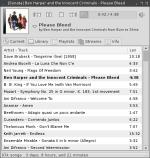
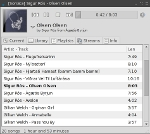
update website for 1.6

diff --git a/website/documentation.html b/website/documentation.html
@@ -134,14 +134,12 @@
 	
 	<p>&nbsp;&nbsp;&nbsp;&nbsp;&nbsp;<u>Main Shortcuts</u>:<br/>
 	  &nbsp;&nbsp;&nbsp;&nbsp;&nbsp;<b>F1</b>: About Sonata<br/>
-	  &nbsp;&nbsp;&nbsp;&nbsp;&nbsp;<b>F2</b>: Display song info window<br/>
 	  &nbsp;&nbsp;&nbsp;&nbsp;&nbsp;<b>F5</b>: Preferences<br/>
-	  &nbsp;&nbsp;&nbsp;&nbsp;&nbsp;<b>Alt-1</b>: Switch to current playlist<br/>
-	  &nbsp;&nbsp;&nbsp;&nbsp;&nbsp;<b>Alt-2</b>: Switch to library<br/>
-	  &nbsp;&nbsp;&nbsp;&nbsp;&nbsp;<b>Alt-3</b>: Switch to playlists<br/>
-	  &nbsp;&nbsp;&nbsp;&nbsp;&nbsp;<b>Alt-4</b>: Switch to streams<br/>
+	  &nbsp;&nbsp;&nbsp;&nbsp;&nbsp;<b>F11</b>: Fullscreen Artwork Mode<br/>
+	  &nbsp;&nbsp;&nbsp;&nbsp;&nbsp;<b>Alt-[1-5]</b>: Switch to [1st-5th] tab<br/>
 	  &nbsp;&nbsp;&nbsp;&nbsp;&nbsp;<b>Alt-C</b>: Connect to MPD<br/>
 	  &nbsp;&nbsp;&nbsp;&nbsp;&nbsp;<b>Alt-D</b>: Disconnect from MPD<br/>
+	  &nbsp;&nbsp;&nbsp;&nbsp;&nbsp;<b>Alt-R</b>: Randomize current playlist<br/>
 	  &nbsp;&nbsp;&nbsp;&nbsp;&nbsp;<b>Alt-Down</b>: Expand player<br/>
 	  &nbsp;&nbsp;&nbsp;&nbsp;&nbsp;<b>Alt-Left</b>: Switch to previous tab<br/>
 	  &nbsp;&nbsp;&nbsp;&nbsp;&nbsp;<b>Alt-Right</b>: Switch to next tab<br/>
@@ -161,6 +159,7 @@
 	  &nbsp;&nbsp;&nbsp;&nbsp;&nbsp;<b>Ctrl-Plus</b>: Raise the volume<br/></p>
 
 	<p>&nbsp;&nbsp;&nbsp;&nbsp;&nbsp;<u>Current Shortcuts</u>:<br/>
+	  &nbsp;&nbsp;&nbsp;&nbsp;&nbsp;<b>Alt-R</b>: Randomize list<br/>
 	  &nbsp;&nbsp;&nbsp;&nbsp;&nbsp;<b>Enter/Space</b>: Play selected song<br/>
 	  &nbsp;&nbsp;&nbsp;&nbsp;&nbsp;<b>Delete</b>: Remove selected song(s)<br/>
 	  &nbsp;&nbsp;&nbsp;&nbsp;&nbsp;<b>Ctrl-I</b>: Center currently playing song<br/>
@@ -174,19 +173,25 @@
 	  &nbsp;&nbsp;&nbsp;&nbsp;&nbsp;<b>Ctrl-D</b>: Add selected song(s) or directory(s)<br/>
 	  &nbsp;&nbsp;&nbsp;&nbsp;&nbsp;<b>Ctrl-R</b>: Replace with selected song(s) or directory(s)<br/>
 	  &nbsp;&nbsp;&nbsp;&nbsp;&nbsp;<b>Ctrl-T</b>: Edit selected song's tags<br/>
+	  &nbsp;&nbsp;&nbsp;&nbsp;&nbsp;<b>Ctrl-Shift-D</b>: Add selected item(s) and play<br/>
+	  &nbsp;&nbsp;&nbsp;&nbsp;&nbsp;<b>Ctrl-Shift-R</b>: Replace with selected item(s) and play<br/>
 	  &nbsp;&nbsp;&nbsp;&nbsp;&nbsp;<b>Ctrl-U</b>: Update selected item(s)/path(s)<br/></p>
 	
 	<p>&nbsp;&nbsp;&nbsp;&nbsp;&nbsp;<u>Playlist Shortcuts</u>:<br/>
 	  &nbsp;&nbsp;&nbsp;&nbsp;&nbsp;<b>Enter/Space</b>: Add selected playlist(s)<br/>
 	  &nbsp;&nbsp;&nbsp;&nbsp;&nbsp;<b>Delete</b>: Remove selected playlist(s)<br/>
 	  &nbsp;&nbsp;&nbsp;&nbsp;&nbsp;<b>Ctrl-D</b>: Add selected playlist(s)<br/>
-	  &nbsp;&nbsp;&nbsp;&nbsp;&nbsp;<b>Ctrl-R</b>: Replace with selected playlist(s)<br/></p>
+	  &nbsp;&nbsp;&nbsp;&nbsp;&nbsp;<b>Ctrl-R</b>: Replace with selected playlist(s)<br/>
+	  &nbsp;&nbsp;&nbsp;&nbsp;&nbsp;<b>Ctrl-Shift-D</b>: Add selected playlist(s) and play<br/>
+	  &nbsp;&nbsp;&nbsp;&nbsp;&nbsp;<b>Ctrl-Shift-R</b>: Replace with selected playlist(s) and play<br/></p>
 	
 	<p>&nbsp;&nbsp;&nbsp;&nbsp;&nbsp;<u>Stream Shortcuts</u>:<br/>
 	  &nbsp;&nbsp;&nbsp;&nbsp;&nbsp;<b>Enter/Space</b>: Add selected stream(s)<br/>
 	  &nbsp;&nbsp;&nbsp;&nbsp;&nbsp;<b>Delete</b>: Remove selected stream(s)<br/>
 	  &nbsp;&nbsp;&nbsp;&nbsp;&nbsp;<b>Ctrl-D</b>: Add selected stream(s)<br/>
-	  &nbsp;&nbsp;&nbsp;&nbsp;&nbsp;<b>Ctrl-R</b>: Replace with selected stream(s)<br/></p>
+	  &nbsp;&nbsp;&nbsp;&nbsp;&nbsp;<b>Ctrl-R</b>: Replace with selected stream(s)<br/>
+	  &nbsp;&nbsp;&nbsp;&nbsp;&nbsp;<b>Ctrl-Shift-D</b>: Add selected stream(s) and play<br/>
+	  &nbsp;&nbsp;&nbsp;&nbsp;&nbsp;<b>Ctrl-Shift-R</b>: Replace with selected stream(s) and play<br/></p>
 	
 	<p>&nbsp;&nbsp;&nbsp;&nbsp;&nbsp;<u>Info Shortcuts</u>:<br/>
 	  &nbsp;&nbsp;&nbsp;&nbsp;&nbsp;<b>Ctrl-T</b>: Edit playing song's tags<br/></p>
@@ -194,7 +199,7 @@
 
       <div class="footer">
 	<div class="right">
-	  <p>&copy; 2008 Scott Horowitz</p>
+	  <p>&copy; 2008-2009 Scott Horowitz</p>
 	</div>
 	<br/>
       </div>

diff --git a/website/changelog.html b/website/changelog.html
@@ -27,6 +27,41 @@
 
 		 <h2>Changelog</h2>
 		 
+		 	<p>March 29, 2008 (Version 1.6):<ul>
+			<li>Album browsing mode, additional details in library views</li>
+			<li>Real-time searching of library (search as you type)</li>
+			<li>Fullscreen album art mode (via right-click on artwork) (mips)</li>
+			<li>Improve library searching across meta tags</li>
+			<li>Sort library search results</li>
+			<li>Show file path in tooltip for library search results</li>
+			<li>Improved support for updating less than entire library</li>
+			<li>Drag-and-drop to copy files from Sonata to a file manager (Kamil)</li>
+			<li>Ability to show file paths in tag editing window</li>
+			<li>Use plchanges for faster performance (e.g. add to playlist)</li>
+			<li>Allow manually fetching remote art when using local art pref (Erik)</li>
+			<li>Swap mousewheel behavior for progressbar</li>
+			<li>Only minimize to trayicon on click if focused; raise if not focused</li>
+			<li>Use new 'listplaylists' command for retrieving playlists</li>
+			<li>Allow hiding the application's titlebar in preferences</li>
+			<li>Better error trapping</li>
+			<li>Make process name 'sonata' for linux (himdel)</li>
+			<li>Look for &lt;artist&gt; - &lt;title&gt;.txt lyrics files by other clients</li>
+ 			<li>Add Traditional Chinese translation (b4283)</li>
+			<li>Add Japanese translation (Masato)</li>
+			<li>Add Slovenian translation (Alan)</li>
+			<li>Code modernisation, modularisation, overall cleanup, documentation</li>
+			<li>A prototype of a plug-in system</li>
+			<li>Unicode fixes</li>
+			<li>Some helpful error messages if startup fails</li>
+			<li>Useless code removed, various code cleanups and refactorings (Stephen)</li>
+			<li>Bug: Bad profiles prevent Sonata from starting</li>
+			<li>Bug: Error for CLI arguments when Sonata can't connect to MPD (Juan)</li>
+			<li>Bug: Files may not update in interface after tag editing</li>
+			<li>Bug: Traceback with Turkish locale</li>
+			<li>Bug: Lyrics don't work with python-zsi 2.0 on Ubuntu</li>
+			<li>Bug: Bell sound when going to parent folder using backspace</li>
+			</ul>
+
 		 	<p>September 13, 2008 (Version 1.5.3):<ul>
 			<li>Quick link to edit lyrics through LyricWiki</li>
 			<li>Unicode lyrics and better searching with LyricWiki (orivej)</li>
@@ -416,7 +451,7 @@
 
 <div class="footer">
   <div class="right">
-    <p>&copy; 2008 Scott Horowitz</p>
+    <p>&copy; 2008-2009 Scott Horowitz</p>
   </div>
   <br/>
 </div>

diff --git a/website/download.html b/website/download.html
@@ -27,7 +27,7 @@
 
 		 <h2>Download</h2>
 
-			<p>Sonata source code is available here:&nbsp;&nbsp;<a href="http://download.berlios.de/sonata/sonata-1.5.3.tar.gz">sonata-1.5.3.tar.gz</a>&nbsp;&nbsp;&nbsp;&nbsp;&nbsp;<a href="http://download.berlios.de/sonata/sonata-1.5.3.tar.bz2">sonata-1.5.3.tar.bz2</a><br/><br/>
+			<p>Sonata source code is available here:&nbsp;&nbsp;<a href="http://download.berlios.de/sonata/sonata-1.6.tar.gz">sonata-1.6.tar.gz</a>&nbsp;&nbsp;&nbsp;&nbsp;&nbsp;<a href="http://download.berlios.de/sonata/sonata-1.6.tar.bz2">sonata-1.6.tar.bz2</a><br/><br/>
 
 			&nbsp;&nbsp;&nbsp;&nbsp;&nbsp;Archlinux: pacman -S <a href="http://archlinux.org/packages/search/?q=sonata">sonata</a> (James Rayner)<br/>
 			&nbsp;&nbsp;&nbsp;&nbsp;&nbsp;Debian: Available in <a href="http://packages.debian.org/unstable/sound/sonata">unstable</a> (Michal Čihař)<br/>
@@ -48,14 +48,14 @@
 
 		<h2>Requirements</h2>
 
-			<p>PyGTK 2.6.0 or newer<br/>
-				GTK+ 2.6.0 or newer<br/>
-				python-mpd 0.2.0 or newer<br />
-				Python 2.5 or python-elementtree<br/>
+			<p>PyGTK 2.12 or newer<br/>
+				GTK+ 2.12 or newer<br/>
+				python-mpd 0.2 or newer<br />
+				Python 2.5 or newer<br/>
 				MPD 0.12 or newer (possibly on another computer)<br/>
-				gnome-python-extras or PyGTK 2.10.x for system tray support (optional)<br/>
+				gnome-python-extras for enhanced system tray support (optional)<br/>
 				taglib and tagpy for editing metadata (optional)<br/>
-				ZSI 2.0 or newer for lyrics support (optional)<br/>
+				ZSI 2.0 or newer for automatic lyrics fetching (optional)<br/>
 				dbus-python for mmkeys, single instance support (optional)<br/>
 				GCC (building only)<br/>
 				python-dev (on some distros; building only)
@@ -64,7 +64,7 @@
 
 <div class="footer">
   <div class="right">
-    <p>&copy; 2008 Scott Horowitz</p>
+    <p>&copy; 2008-2009 Scott Horowitz</p>
   </div>
   <br/>
 </div>

diff --git a/website/index.html b/website/index.html
@@ -32,19 +32,21 @@
 <div class="content">
 
 		 <h2>About</h2>
-		 <p>Sonata is an elegant GTK+ music client for the <a href="http://www.musicpd.org">Music Player Daemon (MPD)</a>.  The latest version is <a href="download.html">1.5.3</a>.</p>
+		 <p>Sonata is an elegant GTK+ music client for the <a href="http://www.musicpd.org">Music Player Daemon (MPD)</a>.  The latest version is <a href="download.html">1.6</a>.</p>
 		 <p>Sonata is licensed by the GPL and is <a href="http://www.gnu.org/philosophy/free-sw.html">free software</a>.  It has been forked from the unmaintained <a href="http://pygmy.berlios.de">Pygmy</a> project in order to fix bugs, introduce new features, and proceed down a different path.
 
 		 <h2>Features</h2>
 		 <p>- Expanded and collapsed views<br/>
 		- Automatic remote and local album art<br/>
+		- Library browsing by folders, or by genre/artist/album<br/>
 		- User-configurable columns<br/>
 		- Automatic fetching of lyrics<br/>
 		- Playlist and stream support<br/>
 		- Support for editing song tags<br/>
+		- Drag and drop to copy files<br/>
 		- Popup notification<br/>
-		- Library and playlist searching<br/>
-		- Audioscrobbler (last.fm) support<br/>
+		- Library and playlist searching, filter as you type<br/>
+		- Audioscrobbler (last.fm) 1.2 support<br/>
 		- Multiple MPD profiles<br/>
 		- Keyboard friendly<br/>
 		- Support for multimedia keys<br/>
@@ -52,11 +54,15 @@
 		- Available in 24 languages<br/>
 		 </p>
 
+		 <h2>Developers</h2>
+		 <p>Scott Horowitz &lt;stonecrest@gmail.com&gt;<br/>
+		 Tuukka Hastrup &lt;Tuukka.Hastrup@iki.fi&gt;</p>
+
 </div>
 
 <div class="footer">
   <div class="right">
-    <p>&copy; 2008 Scott Horowitz</p>
+    <p>&copy; 2008-2009 Scott Horowitz</p>
   </div>
   <br/>
 </div>

diff --git a/website/screenshots.html b/website/screenshots.html
@@ -35,7 +35,7 @@
 						<td width="33%" align="right"><a href="images/sonata3.png"><img src="images/t_sonata3.jpg"></a><br/><i>Music library, searchbar.</i><br/><br/></td>
 					</tr>
 					<tr>
-						<td width="33%" align="right"><a href="images/sonata4.png"><img src="images/t_sonata4.jpg"></a><br/><i>Genre &amp; artist browsing.</i><br/><br/></td>
+						<td width="33%" align="right"><a href="images/sonata4.png"><img src="images/t_sonata4.jpg"></a><br/><i>Artist &amp; album browsing.</i><br/><br/></td>
 						<td width="33%" align="right"><a href="images/sonata5.png"><img src="images/t_sonata5.jpg"></a><br/><i>Batch tag editing.</i><br/><br/></td>
 						<td width="33%" align="right"><a href="images/sonata6.png"><img src="images/t_sonata6.jpg"></a><br/><i>Alternative album art.</i><br/><br/></td>
 					</tr>
@@ -52,7 +52,7 @@
 
 <div class="footer">
   <div class="right">
-    <p>&copy; 2008 Scott Horowitz</p>
+    <p>&copy; 2008-2009 Scott Horowitz</p>
   </div>
   <br/>
 </div>

diff --git a/website/support.html b/website/support.html
@@ -42,7 +42,7 @@
 
 <div class="footer">
   <div class="right">
-    <p>&copy; 2008 Scott Horowitz</p>
+    <p>&copy; 2008-2009 Scott Horowitz</p>
   </div>
   <br/>
 </div>
